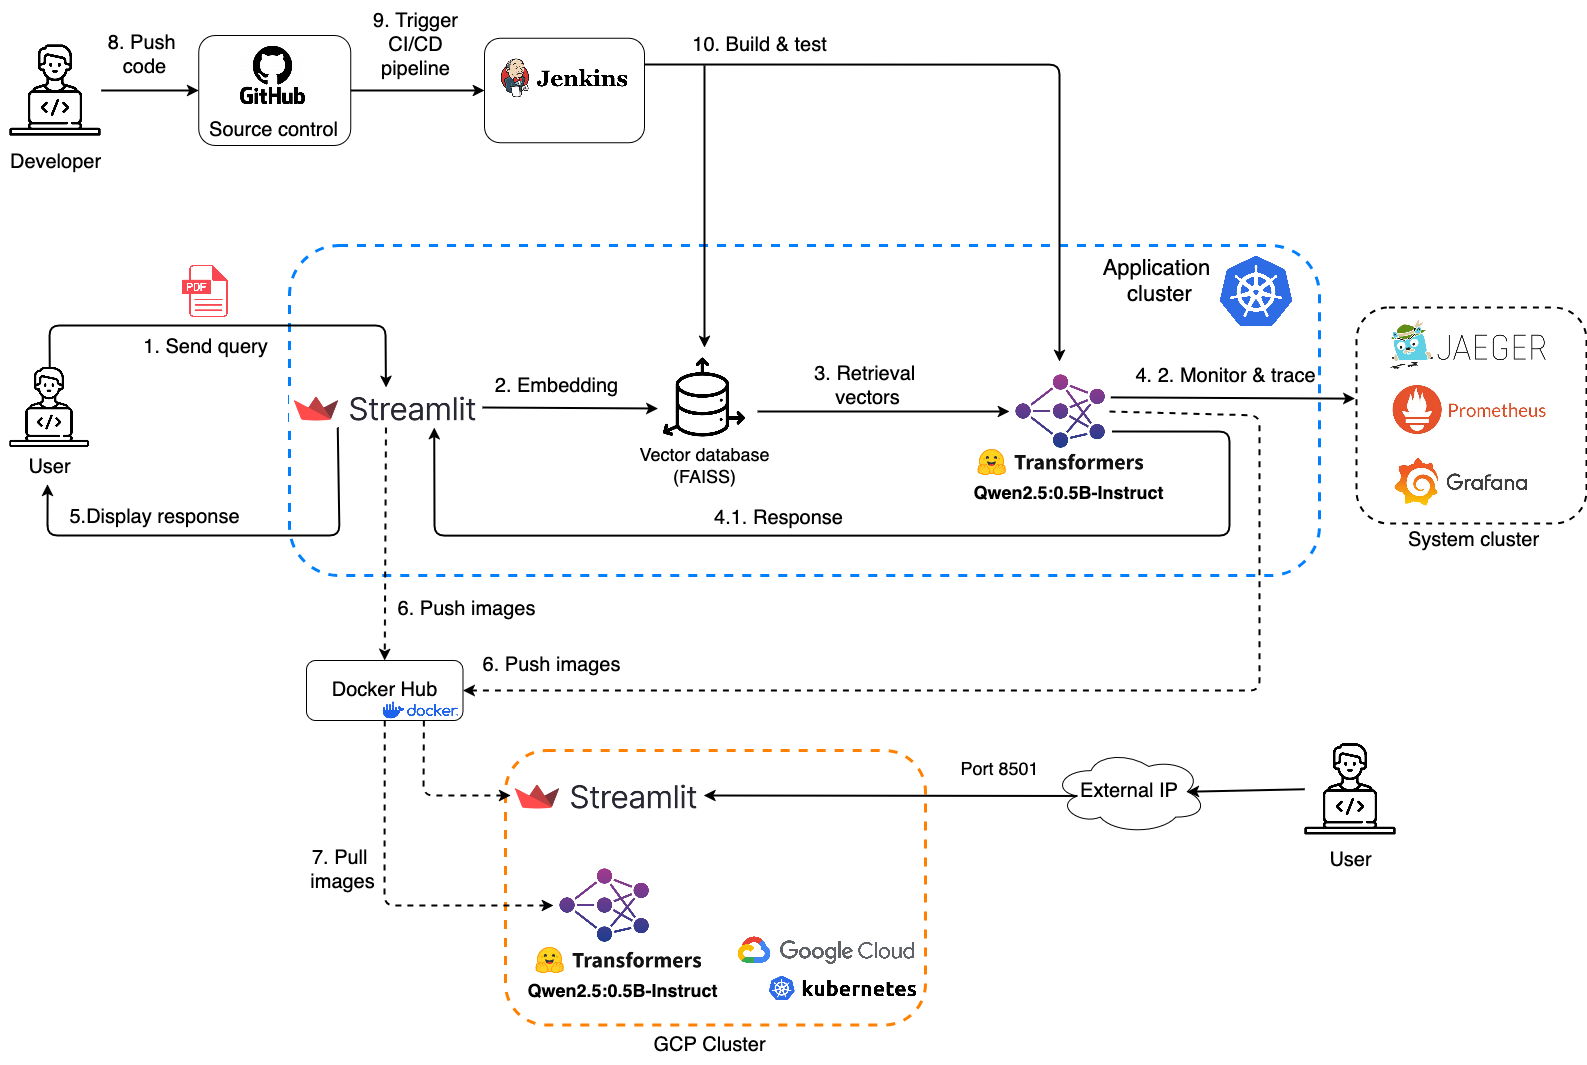
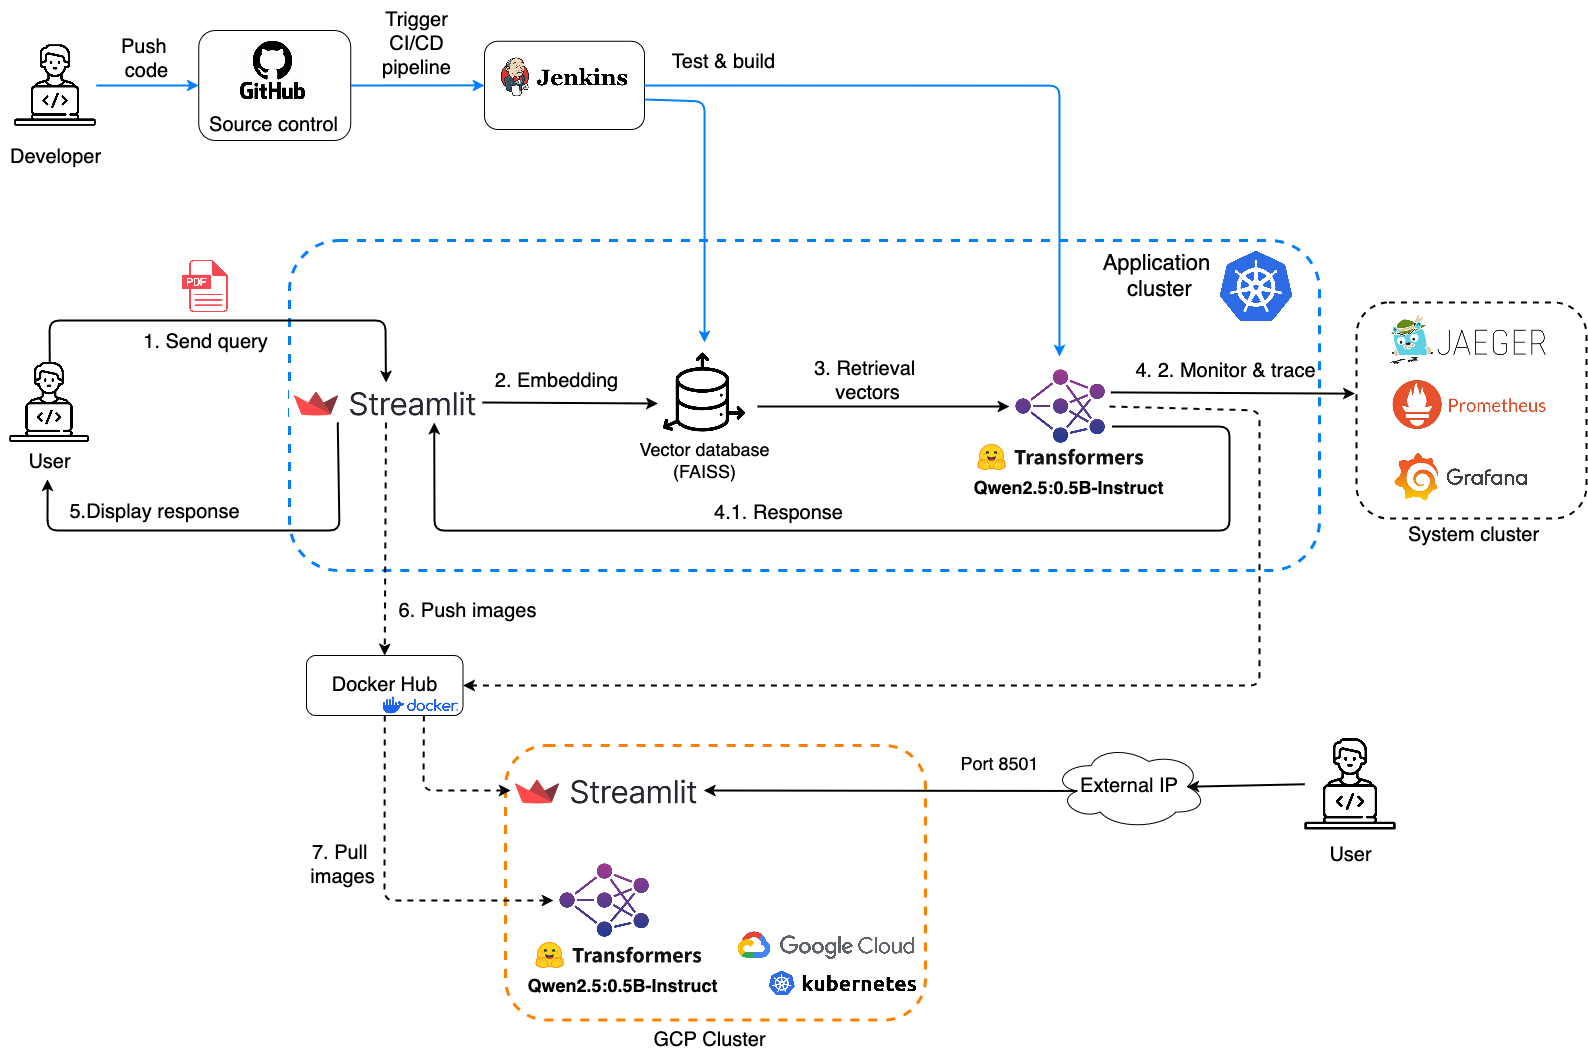
fix: updating manual trace - Jaeger Tracing
fixing OpenBLAS Warning

diff --git a/rag-pipeline/src/main.py b/rag-pipeline/src/main.py
@@ -7,6 +7,7 @@ from pydantic import BaseModel
 from prometheus_client import generate_latest, CONTENT_TYPE_LATEST
 from opentelemetry.instrumentation.fastapi import FastAPIInstrumentor
 from data_pipeline import setup_pipeline
+from model_setup import load_model
 from utils import *
 
 class ChatRequest(BaseModel):
@@ -14,6 +15,28 @@ class ChatRequest(BaseModel):
 
 app = FastAPI()
 FastAPIInstrumentor.instrument_app(app)
+
+def load_llm(model_name="Qwen/Qwen2.5-0.5B-Instruct"):
+    """Function to load LLM on startup.
+
+    Args:
+        model_name (str, optional): Model name on [Hugging Face](https://huggingface.co/Qwen/Qwen2.5-0.5B-Instruct). 
+        Defaults to "Qwen/Qwen2.5-0.5B-Instruct".
+    """
+    with tracer.start_as_current_span("load_llm") as load_llm:
+        start_time = time.time()
+        
+        try:
+            # Loading LLM Model
+            logger.info("🔄 Loading LLM ...")
+            local_dir = get_model_dir(model_name)
+            model_state.model = load_model(model_name=model_name, local_dir=local_dir)           
+            MODEL_LOAD_TIME.observe(time.time() - start_time)
+            model_state.llm_loaded = True
+            logger.info("✅ LLM Model Loaded Successfully")
+        except Exception as e:
+            logger.error(f"❌ LLM Model Load Failed: {e}", exc_info=True)
+            model_state.llm_loaded = False
 
 @app.get("/metadata")
 def get_metadata():
@@ -37,25 +60,28 @@ async def upload_pdf(user_id: str, file: UploadFile = File(...)):
         user_id (str): User ID for storing and retrieving PDF documents.
         file (UploadFile, optional): PDF file to be uploaded. Defaults to File(...).
     """
-    if not model_state.llm_loaded:
-        raise HTTPException(status_code=503, detail="LLM is still loading. Please wait.")
-    
-    try:
-        # Save file locally
-        file_path = UPLOAD_DIR / f"{user_id}_{file.filename}"
-        os.makedirs("./uploaded_pdfs", exist_ok=True)
-        with open(file_path, "wb") as buffer:
-            shutil.copyfileobj(file.file, buffer)
-        
-        # Update qa_pipeline with the new document
-        logger.info(f" Updating retriever for user {user_id}...")
-        model_state.qa_pipeline = setup_pipeline(local_dir=get_model_dir(), file_path=str(file_path), model=model_state.model)
-        logger.info("Retriever updated!")
-        return {"message": "PDF processed and stored successfully", "file_path": file_path}
+    with tracer.start_as_current_span("upload_pdf") as upload_pdf:
+        if not model_state.llm_loaded:
+            raise HTTPException(status_code=503, detail="LLM is still loading. Please wait.")
+        try:
+            # Save file locally
+            file_path = UPLOAD_DIR / f"{user_id}_{file.filename}"
+            os.makedirs("./uploaded_pdfs", exist_ok=True)
+            with open(file_path, "wb") as buffer:
+                shutil.copyfileobj(file.file, buffer)
+            
+            # Update qa_pipeline with the new document
+            logger.info(f" Updating retriever for user {user_id}...")
+            with tracer.start_as_current_span(
+                "setup_pipeline", links=[trace.Link(upload_pdf.get_span_context())]
+            ):
+                model_state.qa_pipeline = setup_pipeline(local_dir=get_model_dir(), file_path=str(file_path), model=model_state.model)
+            logger.info("Retriever updated!")
+            return {"message": "PDF processed and stored successfully", "file_path": file_path}
 
-    except Exception as e:
-        logger.error(f"❌ Error updating retriever: {e}", exc_info=True)
-        raise HTTPException(status_code=500, detail=str(e))
+        except Exception as e:
+            logger.error(f"❌ Error updating retriever: {e}", exc_info=True)
+            raise HTTPException(status_code=500, detail=str(e))
     
 @app.post("/api/chat", description="API endpoint to chat with local LLM and measure latency with Prometheus.")
 def chat_endpoint(user_id: str, request: ChatRequest):

diff --git a/rag-pipeline/src/utils.py b/rag-pipeline/src/utils.py
@@ -7,20 +7,24 @@ from pathlib import Path
 from huggingface_hub import snapshot_download
 from transformers import AutoModelForCausalLM
 from prometheus_client import Counter, Histogram, Gauge
+from opentelemetry import trace
+from opentelemetry.exporter.jaeger.thrift import JaegerExporter
+from opentelemetry.sdk.resources import SERVICE_NAME, Resource
+from opentelemetry.sdk.trace import TracerProvider
+from opentelemetry.sdk.trace.export import BatchSpanProcessor
+from opentelemetry.trace import get_tracer_provider, set_tracer_provider
 
-if os.getenv("DISABLE_TRACING") != "true":
-    from opentelemetry import trace
-    from opentelemetry.sdk.trace import TracerProvider
-    from opentelemetry.sdk.trace.export import BatchSpanProcessor
-    from opentelemetry.exporter.otlp.proto.grpc.trace_exporter import OTLPSpanExporter
-    
-    # Initialize OpenTelemetry
-    trace.set_tracer_provider(TracerProvider())
-    trace.get_tracer_provider().add_span_processor(
-        BatchSpanProcessor(OTLPSpanExporter(endpoint="http://jaeger:4317"))
-    )
-else:
-    trace = None
+# Initialize OpenTelemetry
+set_tracer_provider(
+    TracerProvider(resource=Resource.create({SERVICE_NAME: "rag-pipeline-service"}))
+)
+tracer = get_tracer_provider().get_tracer("rag-pipeline", "0.1.1")
+jaeger_exporter = JaegerExporter(
+    collector_endpoint="http://jaeger:14268/api/traces"
+    # collector_endpoint="http://jaeger:4317"
+)
+span_processor = BatchSpanProcessor(jaeger_exporter)
+get_tracer_provider().add_span_processor(span_processor)
 
 def get_hardware() -> str:
     """Get hardware available for inference.
@@ -86,45 +90,6 @@ UPLOAD_DIR.mkdir(parents=True, exist_ok=True)
 # Initialize logger
 logging.basicConfig(level=logging.INFO)
 logger = logging.getLogger(__name__)
-
-def load_llm(model_name="Qwen/Qwen2.5-0.5B-Instruct"):
-    """Function to load LLM on startup.
-
-    Args:
-        model_name (str, optional): Model name on [Hugging Face](https://huggingface.co/Qwen/Qwen2.5-0.5B-Instruct). 
-        Defaults to "Qwen/Qwen2.5-0.5B-Instruct".
-    """
-    start_time = time.time()
-    
-    try:
-        # Loading LLM Model
-        logger.info("🔄 Loading LLM ...")
-        local_dir = get_model_dir(model_name)
-        # Ensure the directory exists
-        os.makedirs(local_dir, exist_ok=True)
-        
-        if not os.path.exists(os.path.join(local_dir, "config.json")):
-            logger.info(f"Model not found locally, downloading to {local_dir}...")
-            snapshot_download(repo_id=model_name, local_dir=local_dir)
-            logger.info("Model downloaded!")
-        else:
-            logger.info(f"Model already exists in {local_dir}, skipping download.")
-        
-        # Get hardware
-        hardware = get_hardware()
-        
-        logger.info(f"Loading model from {local_dir} on {hardware}...")
-        model_state.model = AutoModelForCausalLM.from_pretrained(
-            pretrained_model_name_or_path=local_dir,
-            device_map=hardware
-            )    
-
-        MODEL_LOAD_TIME.observe(time.time() - start_time)
-        model_state.llm_loaded = True
-        logger.info("✅ LLM Model Loaded Successfully")
-    except Exception as e:
-        logger.error(f"❌ LLM Model Load Failed: {e}", exc_info=True)
-        model_state.llm_loaded = False
         
 def monitor_memory_usage(interval: int=5):
     """Get memory usage of the LLM.

diff --git a/rag-pipeline/src/data_pipeline.py b/rag-pipeline/src/data_pipeline.py
@@ -5,7 +5,7 @@ from langchain.prompts import PromptTemplate
 from langchain.chains.retrieval_qa.base import RetrievalQA
 from model_setup import load_model
 from data_preparation import prepare_retriever
-from utils import get_model_dir
+from utils import get_model_dir, tracer, trace
 
 def setup_pipeline(local_dir: str, file_path: str = None, model: PreTrainedModel = None) -> RetrievalQA:
     """Setup a QA chain with RAG model.
@@ -18,45 +18,48 @@ def setup_pipeline(local_dir: str, file_path: str = None, model: PreTrainedModel
     Returns:
         RetrievalQA: A QA chain object.
     """
-    tokenizer = AutoTokenizer.from_pretrained(local_dir)
-    
-    if model is None:
-        model = load_model(
-            model_name="Qwen/Qwen2.5-0.5B-Instruct", 
-            local_dir=get_model_dir()
+    with tracer.start_as_current_span("setup_pipeline") as setup_pipeline:
+        with tracer.start_as_current_span("load_tokenizer", links=[trace.Link(setup_pipeline.get_span_context())]):
+            tokenizer = AutoTokenizer.from_pretrained(local_dir)
+        
+        if model is None:
+            model = load_model(
+                model_name="Qwen/Qwen2.5-0.5B-Instruct", 
+                local_dir=get_model_dir()
+            )
+        
+        with tracer.start_as_current_span("prepare_retriever", links=[trace.Link(setup_pipeline.get_span_context())]):
+            retriever = prepare_retriever(file_path=file_path)
+        
+        # Setup a RAG pipeline
+        pipe = pipeline(
+            "text-generation",
+            model=model,
+            tokenizer=tokenizer,
+            repetition_penalty=1.2,
+            max_new_tokens=500
         )
-    
-    retriever = prepare_retriever(file_path=file_path)
-    
-    # Setup a RAG pipeline
-    pipe = pipeline(
-        "text-generation",
-        model=model,
-        tokenizer=tokenizer,
-        repetition_penalty=1.2,
-        max_new_tokens=500
-    )
-    
-    # Wrap the HuggingFace pipeline in a LangChain object
-    local_llm = HuggingFacePipeline(pipeline=pipe)
-    
-    # Define the prompt template
-    prompt_template = """Answer based on context:\n{context}\nQuestion: {question}\nAnswer:"""
-    prompt = PromptTemplate(
-        input_variables=["contenxt", "question"],
-        template=prompt_template
-    )
-    
-    # Setup a QA chain
-    qa_chain = RetrievalQA.from_chain_type(
-    llm=local_llm,
-    chain_type="stuff",
-    retriever=retriever,
-    return_source_documents=False,
-    chain_type_kwargs={"prompt": prompt}
-    )
-    
-    return qa_chain
+        
+        # Wrap the HuggingFace pipeline in a LangChain object
+        local_llm = HuggingFacePipeline(pipeline=pipe)
+        
+        # Define the prompt template
+        prompt_template = """Answer based on context:\n{context}\nQuestion: {question}\nAnswer:"""
+        prompt = PromptTemplate(
+            input_variables=["contenxt", "question"],
+            template=prompt_template
+        )
+        
+        # Setup a QA chain
+        qa_chain = RetrievalQA.from_chain_type(
+        llm=local_llm,
+        chain_type="stuff",
+        retriever=retriever,
+        return_source_documents=False,
+        chain_type_kwargs={"prompt": prompt}
+        )
+        
+        return qa_chain
 
 def chat_with_llm(question: str):
     """Ask a question to the QA chain and return the response.

diff --git a/rag-pipeline/src/data_preparation.py b/rag-pipeline/src/data_preparation.py
@@ -4,7 +4,7 @@ from langchain_huggingface import HuggingFaceEmbeddings
 from langchain_community.vectorstores import FAISS
 from langchain_core.vectorstores.base import VectorStoreRetriever
 from data_extraction import extract_data
-from utils import get_hardware, get_root_dir, get_doc_dir
+from utils import get_hardware, get_root_dir, get_doc_dir, trace, tracer
 
 def compute_content_hash(chunks: list, embedding_model_name: str) -> str:
     """Compute a hash based on document content and embedding model name.
@@ -76,28 +76,34 @@ def prepare_retriever(
     Returns:
         VectorStoreRetriever: A retriever object.
     """
-    # Initialize embeddings
-    hardware = get_hardware()
-    embeddings = HuggingFaceEmbeddings(
-        model_name=embedding_model_name,
-        model_kwargs={"device": hardware}
-        )
-    
-    # Create text chunks
-    chunks = extract_data(get_doc_dir() if file_path is None else file_path)
-    vector_store = get_vector_store(
-        chunks=chunks,
-        embeddings=embeddings,
-        cache_dir=get_root_dir() + "rag-pipeline/vector_store"
-    )
-    
-    # Create a retriever
-    retriever = vector_store.as_retriever(
-        search_type="similarity",
-        search_kwargs={"k": 2}
-    )
-    
-    return retriever
+    with tracer.start_as_current_span("prepare_retriever") as prepare_retriever:
+        # Initialize embeddings
+        hardware = get_hardware()
+        with tracer.start_as_current_span("embeddings", links=[trace.Link(prepare_retriever.get_span_context())]):
+            embeddings = HuggingFaceEmbeddings(
+                model_name=embedding_model_name,
+                model_kwargs={"device": hardware}
+                )
+        
+        # Create text chunks
+        with tracer.start_as_current_span("chunks", links=[trace.Link(prepare_retriever.get_span_context())]):
+            chunks = extract_data(get_doc_dir() if file_path is None else file_path)
+            
+        with tracer.start_as_current_span("vector_store", links=[trace.Link(prepare_retriever.get_span_context())]):
+            vector_store = get_vector_store(
+                chunks=chunks,
+                embeddings=embeddings,
+                cache_dir=get_root_dir() + "rag-pipeline/vector_store"
+            )
+        
+        # Create a retriever
+        with tracer.start_as_current_span("retriever", links=[trace.Link(prepare_retriever.get_span_context())]):
+            retriever = vector_store.as_retriever(
+                search_type="similarity",
+                search_kwargs={"k": 2}
+            )
+        
+        return retriever
 
 if __name__ == "__main__":
     retriever = prepare_retriever()

diff --git a/jenkins/README.md b/jenkins/README.md
@@ -72,13 +72,16 @@ docker-compose -f docker-compose.yml up --build
 
 - Click `Add` to complete, then get back to the Configure window and select `github-pat` credentials.  
 
-- In `Branches to build`, select `*/features` instead of `*/master`.
+- In `Branches to build`, select `*/dev-cicd` instead of `*/master`.
 
-- In `Script Path`, select `Jenkinsfile`.  
+- In `Script Path`, select `Jenkinsfile`.   
 
 - Click `Save`.
 
-- Click `Build Now` on the left panel. This will automatically pull project from GitHub, run backend service, and run `pytest` for the service functions.
+- Go to `Credentials` in `Manage Jenkins` tab and add another token for `Codecov` service (register account [here](https://about.codecov.io/)). This is for uploading code coverage report
+to `Codecov` and use the coverage bag in the GitHub repo. 
+
+- Go back to the pipeline and click `Build Now` on the left panel. This will automatically pull project from GitHub, run backend service, and run `pytest` for the service functions.
 
 ![](images/jenkins_s10.png)
 

diff --git a/README.md b/README.md
@@ -98,10 +98,11 @@ docker-compose up --build
 
 Once running:
 ```bash
-Backend (FastAPI) → http://localhost:8000
+Backend (FastAPI) → http://localhost:8000/docs
 Frontend (Streamlit) → http://localhost:8501
 Monitoring (Prometheus) → http://localhost:9090
-Dashboard (Grafana) → http://localhost:3000
+Dashboard (Grafana) → http://localhost:3000  
+Distributed Tracing (Jeager Tracing) → http://localhost:16686  
 ```
 
 #### To stop:

diff --git a/kubernetes/README.md b/kubernetes/README.md
@@ -211,7 +211,7 @@ cd helm-chart/
 ```  
 To install the Helm chart:  
 ```bash
-helm install --namespace model-serving tiny-llm-agent .
+helm install tiny-llm-agent .
 ```  
 To upgrade an existing deployment:  
 ```bash
